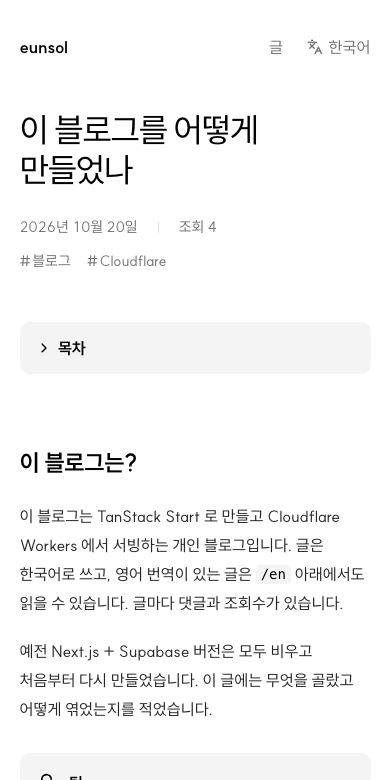
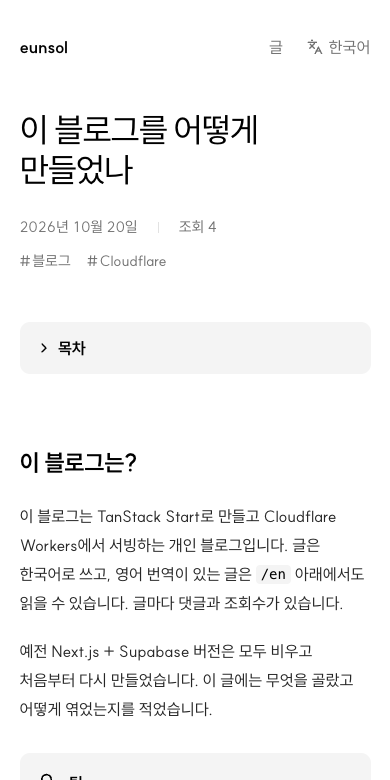
content: 샘플 글의 Worker 역할 설명을 바로잡고 헷갈리는 문장과 캡처를 고침
- "Worker 는 댓글·조회수 API 만 처리한다"는 틀렸다. 사이트 안 이동 때 글 데이터, 404, Cron 도 Worker 가 맡는다
- 빌드 때 HTML 로 만드는 이유에 무료 플랜 CPU 10ms 를 더하고, 회색 상자는 숫자 자리에만 있다고 밝힘
- 위젯은 본문에 자리만 두고 브라우저가 붙인다고 고쳐 "React 컴포넌트를 넣지 않는다"와 어긋나지 않게 함
- 예전 문장이 찍힌 글 목록·좁은 화면 캡처를 다시 찍음
- 영문·코드 뒤 조사 띄어쓰기(본문, 용어집, 문체 가이드 예문)와 가이드의 See Also 규칙(:::see-also)을 고침
- en 번역을 같은 자리에 맞추고 sourceHash 를 갱신함

Claude-Session: https://claude.ai/code/session_01RzL49ncQEeheb9KHNoMXPM

Changed region(s): [[0.1846, 0.6462, 0.8615, 0.7077]]

diff --git a/content/posts/261020/index.ko.md b/content/posts/261020/index.ko.md
@@ -19,10 +19,16 @@ tags: ["meta", "cloudflare"]
 
 ## 구성
 
-![이 블로그의 구성도](./diagram.svg "글은 빌드할 때 정적 파일로 만들고, 댓글·조회수만 Worker와 D1이 처리합니다")
+![이 블로그의 구성도](./diagram.svg "글은 빌드할 때 정적 파일로 만들고, 댓글·조회수는 Worker와 D1이 처리합니다")
 
 글과 화면은 빌드할 때 정적 파일로 만들어 둡니다.
-요청마다 Worker가 일하는 곳은 댓글과 조회수 API뿐입니다.
+주소를 처음 열면 이 파일이 그대로 나갑니다.
+Worker는 그 밖의 일을 맡습니다.
+
+- 댓글·조회수 API
+- 사이트 안에서 페이지를 옮길 때 쓰는 글 데이터
+- 없는 주소의 404 페이지
+- 하루 한 번 도는 기록 정리(Cron)
 
 | 역할 | 고른 것 |
 |---|---|
@@ -42,6 +48,7 @@ tags: ["meta", "cloudflare"]
 
 글 페이지와 목록 페이지는 :term[프리렌더]{key="prerender"}해 둡니다.
 Cloudflare Workers는 `eval`과 `new Function`을 막습니다.
+무료 플랜은 요청 하나에 CPU 시간을 10ms까지만 줍니다.
 그래서 Markdown을 요청마다 해석하지 않고, 빌드할 때 HTML로 만들어 둡니다.
 
 글 하나는 폴더 하나입니다.
@@ -70,7 +77,7 @@ tags: ["meta"]
 ![글 목록 화면](./posts.png "글 목록. 위쪽 태그로 글을 거를 수 있습니다")
 
 글 데이터는 서버에만 있습니다.
-브라우저가 받는 JavaScript 에는 글 본문이 들어가지 않습니다.
+브라우저가 받는 JavaScript에는 글 본문이 들어가지 않습니다.
 그 JavaScript는 지금 gzip으로 128.9KB입니다.
 
 폰트는 SUIT 하나만 씁니다.
@@ -93,7 +100,7 @@ tags: ["meta"]
 방문자는 그날만 쓰는 솔트와 IP, 브라우저 정보를 해시해서 구분하고, 원본 IP는 저장하지 않습니다.
 
 페이지는 미리 만들어 둔 것이라 숫자와 댓글은 브라우저가 API로 받아서 채웁니다.
-:term[하이드레이션]{key="hydration"}이 끝나면 요청을 보내고, 기다리는 동안에는 회색 자리를 보여 줍니다.
+:term[하이드레이션]{key="hydration"}이 끝나면 요청을 보내고, 기다리는 동안 숫자 자리에는 회색 상자를 보여 줍니다.
 
 ## 두 언어로 씁니다
 
@@ -129,7 +136,8 @@ Simplicity is prerequisite for reliability.
 :::
 ::::
 
-글 안에 작은 위젯도 넣을 수 있습니다.
+MDX처럼 글 안에 컴포넌트 코드를 쓰지는 않지만, 위젯을 둘 자리는 표시할 수 있습니다.
+그 자리에 미리 만들어 둔 위젯을 브라우저가 붙입니다.
 아래 버튼을 눌러 보세요.
 
 :::widget-counter-demo
@@ -138,7 +146,7 @@ Simplicity is prerequisite for reliability.
 
 ## 글을 마치며
 
-이 블로그는 글과 화면을 빌드할 때 만들어 두고, 댓글과 조회수만 Worker가 처리합니다.
+이 블로그는 글과 화면을 빌드할 때 만들어 두고, 댓글과 조회수는 Worker와 D1이 처리합니다.
 글은 Markdown으로 쓰고, 영어 번역이 원문과 어긋나면 빌드가 멈춥니다.
 아직 소개글과 소셜 링크는 정하지 않았습니다.
 

diff --git a/content/posts/261020/index.en.md b/content/posts/261020/index.en.md
@@ -1,7 +1,7 @@
 ---
 title: "How I built this blog with TanStack Start and Cloudflare Workers"
 description: "How this blog runs on TanStack Start and Cloudflare Workers: build-time prerendering, comments and view counts, bilingual posts, and files for search and AI."
[2 lines of base64/hex data omitted]
 translationStatus: machine
 ---
 
@@ -19,10 +19,16 @@ This post covers what I picked and how I put the pieces together.
 
 ## Structure
 
-![Architecture diagram of this blog](./diagram.svg "Posts become static files at build time; only comments and view counts go through the Worker and D1")
+![Architecture diagram of this blog](./diagram.svg "Posts become static files at build time; comments and view counts are handled by the Worker and D1")
 
 Posts and pages are generated as static files at build time.
-The only thing the Worker handles per request is the comment and view count API.
+When you first open a URL, that file is served as is.
+The Worker handles everything else:
+
+- The comment and view count API
+- Post data used when navigating between pages within the site
+- The 404 page for URLs that don't exist
+- A daily cleanup job for stored records (Cron)
 
 | Role | Choice |
 |---|---|
@@ -42,6 +48,7 @@ For i18n, I compared Intlayer and a hand-rolled implementation before settling o
 
 Post pages and list pages are :term[prerendered]{key="prerender"}.
 Cloudflare Workers blocks `eval` and `new Function`.
+On the free plan, each request gets only 10ms of CPU time.
 So Markdown isn't parsed on every request; it's turned into HTML at build time.
 
 Each post is a folder.
@@ -93,7 +100,7 @@ Reloading the page doesn't increase the number.
 Visitors are told apart by hashing a daily salt together with the IP and browser info, and raw IPs are never stored.
 
 Because the pages are built ahead of time, the browser fills in the counts and comments from the API.
-Requests go out once :term[hydration]{key="hydration"} finishes, and a gray placeholder shows while they load.
+Requests go out once :term[hydration]{key="hydration"} finishes, and gray boxes stand in for the numbers while they load.
 
 ## Written in two languages
 
@@ -129,7 +136,8 @@ Simplicity is prerequisite for reliability.
 :::
 ::::
 
-Posts can also embed small widgets.
+Unlike MDX, posts don't contain component code, but they can mark a spot for a widget.
+The browser then mounts a prebuilt widget in that spot.
 Try the button below.
 
 :::widget-counter-demo
@@ -138,7 +146,7 @@ If widgets can't run in your environment, you'll see this sentence instead.
 
 ## Wrapping up
 
-This blog generates its posts and pages at build time, and only comments and view counts go through the Worker.
+This blog generates its posts and pages at build time, and comments and view counts are handled by the Worker and D1.
 Posts are written in Markdown, and the build stops when an English translation drifts from the original.
 I haven't settled on the About text or social links yet.
 

diff --git a/docs/writing/style-guide.md b/docs/writing/style-guide.md
@@ -18,13 +18,13 @@
 ## 2. 구조
 
 - 기술 글은 인사 없이 `## X?` 정의 섹션으로 시작하고, 첫 문장은 "X는 ~입니다."로 쓴다.
-  - 좋음: `## D1?` → "D1 은 Cloudflare 가 제공하는 SQLite 기반 데이터베이스입니다."
+  - 좋음: `## D1?` → "D1은 Cloudflare가 제공하는 SQLite 기반 데이터베이스입니다."
 - 본문 소제목은 `##` 부터 쓴다. 제목(`#`)은 frontmatter 의 `title` 이 맡는다.
 - 절차 소제목은 `~하기` 명사형으로 쓴다. 예: `## 마이그레이션 적용하기`
 - 제품명은 원어 그대로 쓴다. 예: Cloudflare Workers, TanStack Start
 - 문장은 대부분 60자 이내, 문단은 1~3문장이다. 강조할 한 문장은 따로 뗀다.
 - 결론
-  - 에세이형: `## 글을 마치며` → 요약 → 의견 → 독자에게 던지는 질문 → `### See Also...`
+  - 에세이형: `## 글을 마치며` → 요약 → 의견 → 독자에게 던지는 질문 → `:::see-also`
   - 튜토리얼: 마지막 단계에서 끝내도 된다.
 
 ## 3. 표기
